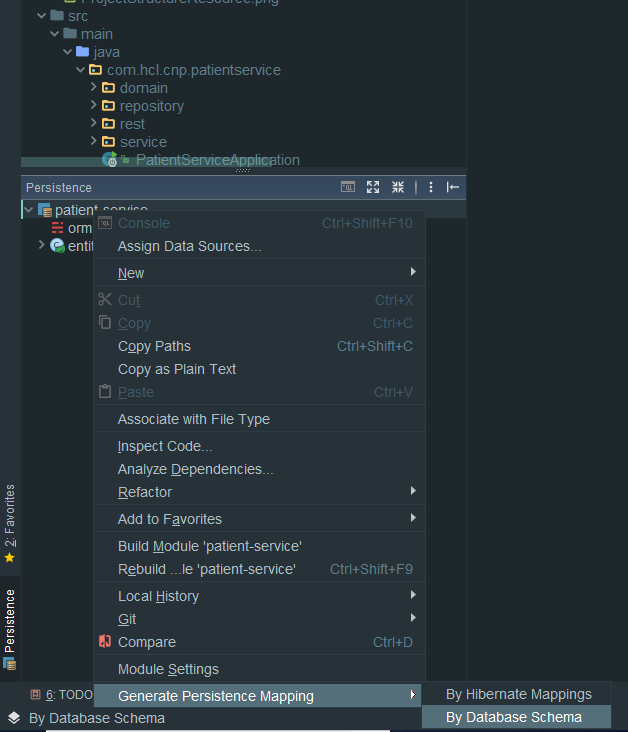
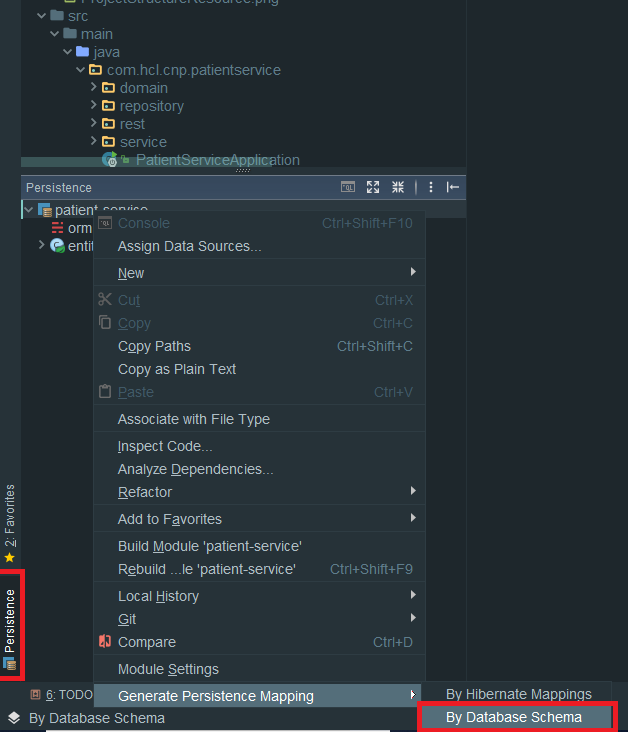
Updating Readme with Entity generation

Changed region(s): [[0.6656, 0.9317, 0.9984, 1.0], [0.0, 0.7814, 0.0605, 0.9317], [0.0, 0.7514, 0.0303, 0.7814]]

diff --git a/README.md b/README.md
@@ -79,3 +79,39 @@ of the business logic and the clients for the communication with other microserv
            return patient;
        }
        
+## Create entities from DB using Intellij IDEA
+
+To create the entities from the DB, you have fist to add the DB connection into the Intellij IDEA. Select which
+Data source you going to use and fill the driver information(Also have to add the jdbc dependency to the pom).
+
+<img width="400" alt="springboot-petclinic" src="./images/DB_Intellij.png">
+
+<img width="400" alt="springboot-petclinic" src="./images/DB_Add_Intellij.png">
+
+<img width="400" alt="springboot-petclinic" src="./images/DataSource&Drivers.png">
+
+Be sure to test your connection and able to see the DB and tables in the Intellij IDEA
+
+<img width="400" alt="springboot-petclinic" src="./images/DB_Visualization&CreateScript.png">
+
+After done that, now we have to tell Intellij IDEA that we are using the ORM Hibernate:
+ 1- Go to Project Structure (alt+ctrl+shift+s)
+ 2- In "Project settings" select "Modules"
+ 3- Press + and add the Hibernate facet in your module.
+ 
+ <img width="400" alt="springboot-petclinic" src="./images/ProjectStructure-Module-JPA.png">
+ 
+ Now you have setup your hibernate configuration facet you can extract your pojos.
+ 
+ 1- At your bottom left horizontal panel you will now see a tab called "Persistence" (ιf you can't find 
+    Persistence tab you may show it by choosing View > Tool Windows > Persistence)
+ 2- There you can right click on the JPA_DB icon named like your module
+ 3- Go to "Generate Persistence Mapping"-"by database schema"
+ 4- Now I guess you can find your way...
+ 5- In general settings select the datasource that you want to use and now you can see all the tables in your 
+    datasource object
+ 6- Now you can do many things, add relationships with the + sign, change the name and type of the pojo's properties 
+    etc. note: if you get an error and the "OK" is disabled its probably because the data type that intelliJ found 
+    for your pojo is invalid. Just change it to the one you need and you are ready to go!
+    
+ <img width="400" alt="springboot-petclinic" src="./images/Persistence+GenerateByDB.png">
